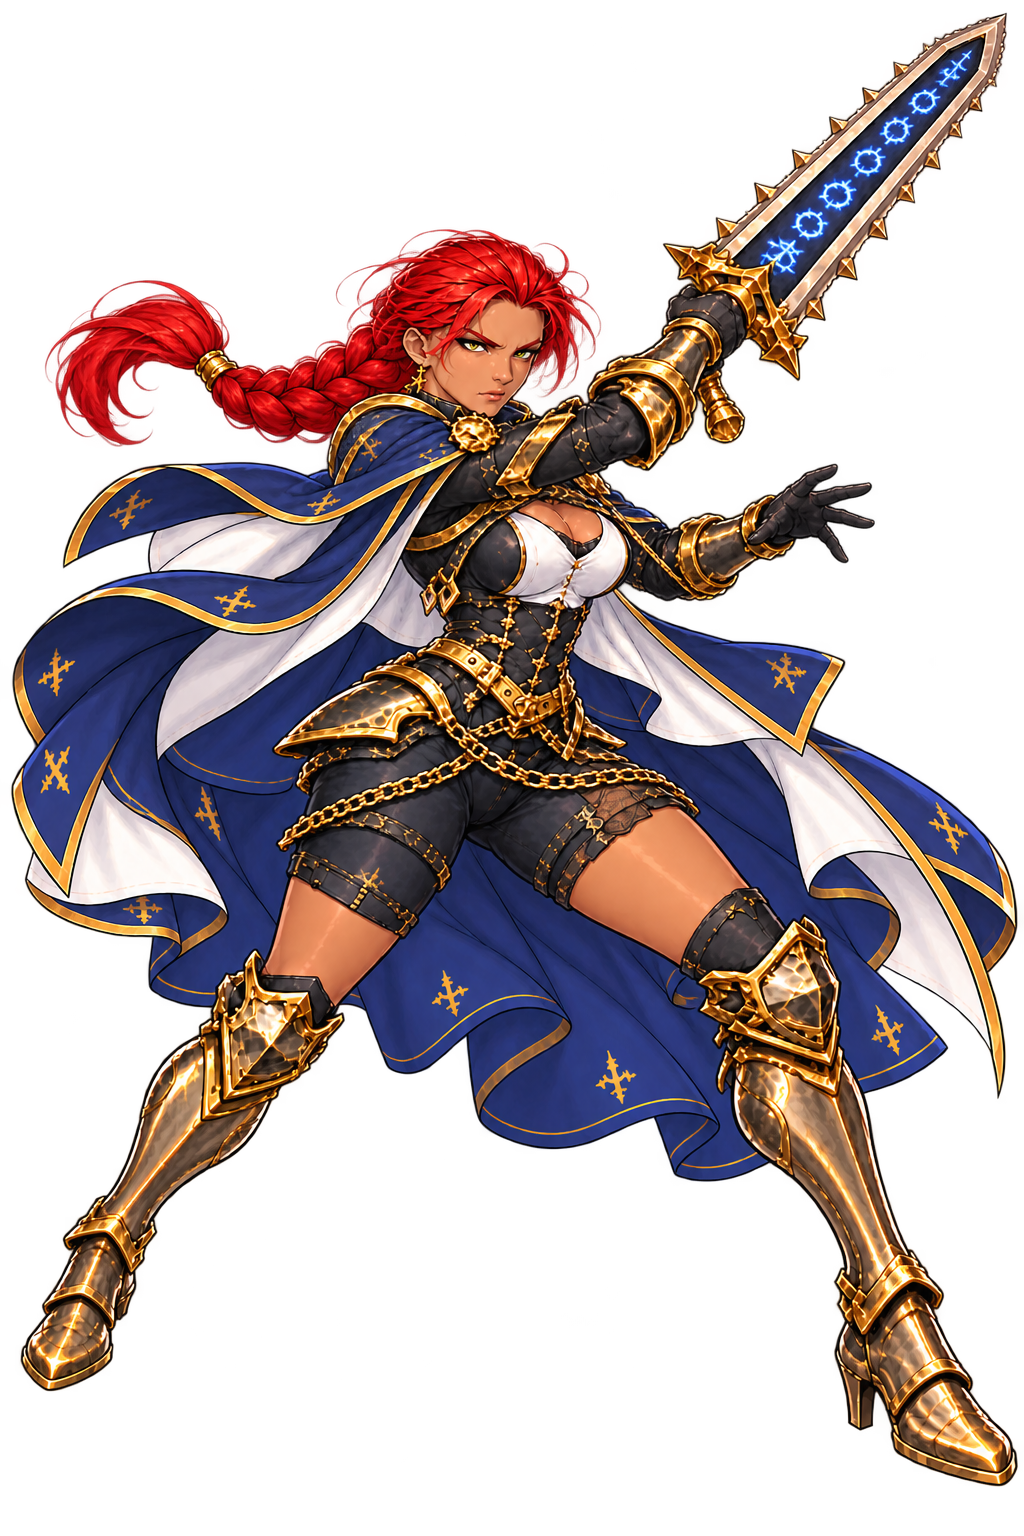
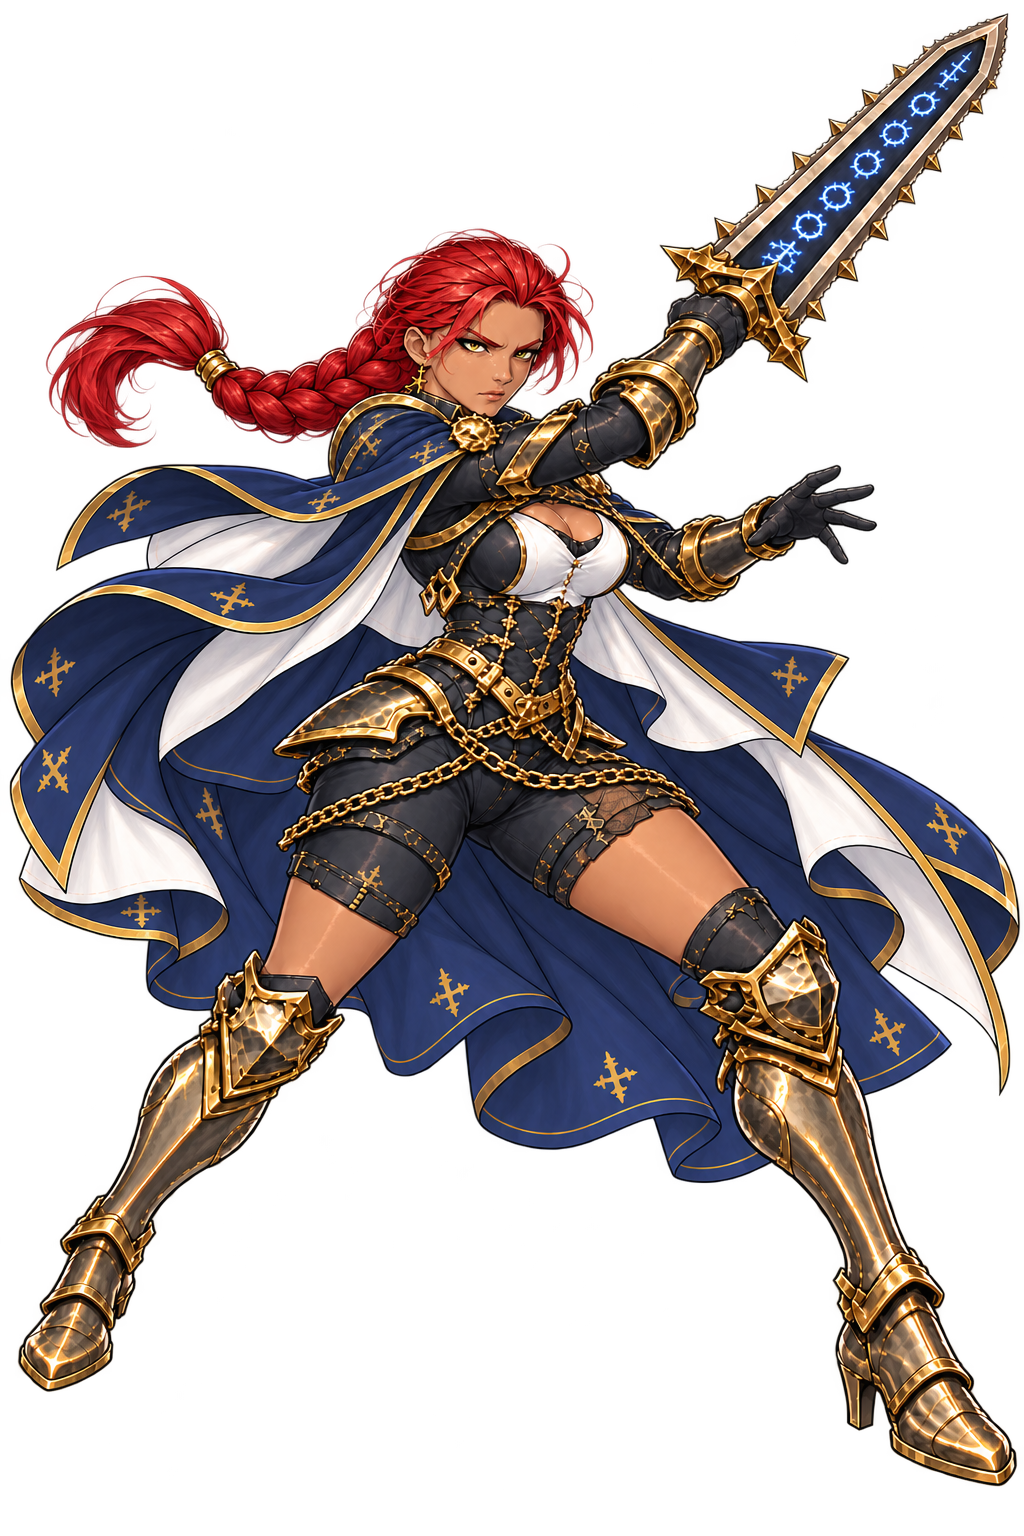
fix: actor art consistency and map UI art direction

Changed region(s): [[0.0, 0.0, 1.0, 0.9688], [0.375, 0.6875, 0.4062, 0.7188]]

diff --git a/app/animation-preview/preview.css b/app/animation-preview/preview.css
@@ -1,3 +1,9 @@
 .actor-preview{max-width:1060px;margin:auto;padding:24px;color:#ede7d8}.actor-preview nav{display:flex;justify-content:space-between}.actor-preview a{color:#d7bd80}.actor-preview h1{margin-top:32px}.actor-preview p{color:#b6c7c5;line-height:1.7}.preview-layout{display:grid;grid-template-columns:1.2fr 1fr;gap:28px}.preview-stage{height:min(68vh,700px);min-height:300px;background:radial-gradient(ellipse at bottom,#3c4e53,#111c20 70%);border:1px solid #536763;border-radius:14px;overflow:hidden}.preview-stage>img{width:100%;height:100%;object-fit:contain}.preview-controls{display:flex;flex-direction:column;gap:12px}.preview-controls h2{font-size:18px;margin:14px 0 0}.preview-controls select{display:block;width:100%;margin-top:8px;padding:12px;background:#172629;color:#ede7d8}.preview-buttons{display:flex;gap:8px;flex-wrap:wrap}.preview-controls button{min-height:44px;padding:10px 16px;border:1px solid #697c76;background:#1c2b2d;color:#eee2bf;border-radius:6px;cursor:pointer}.preview-controls button[aria-pressed=true]{background:#53625c;border-color:#dfc486}.preview-controls small{line-height:1.6;color:#acb7b4}@media(max-width:650px){.preview-layout{grid-template-columns:1fr}.preview-stage{height:48vh}.actor-preview{padding:16px}}@media(orientation:landscape) and (max-height:550px){.preview-layout{grid-template-columns:1fr 1fr}.preview-stage{height:78vh;min-height:220px}}
 .preview-controls .preview-loop{display:flex;align-items:center;gap:10px;min-height:44px}.preview-controls .preview-loop input{width:20px;height:20px;min-height:0;margin:0;padding:0;flex:0 0 20px;accent-color:#dfc486}.frame-sampler{border-top:1px solid #536763;padding-top:12px}.frame-sampler button:disabled{opacity:.6;cursor:wait}
 .preview-loading{height:100%;display:flex;flex-direction:column;align-items:center;justify-content:center;gap:18px;color:#b6c7c5}.preview-loading button{min-height:44px;padding:10px 20px}
+.preview-stage {background:#191d29;border:1px solid #8b7450;border-radius:3px;box-shadow:inset 0 0 0 8px #252836;}
+.preview-controls {background:#24232a;padding:20px;border-top:3px solid #a78350;}
+.preview-controls h2 {color:#e1c692;letter-spacing:.05em;font-size:14px;border-bottom:1px solid #51483e;padding-bottom:8px;}
+.preview-controls button {background:#303442;border-color:#5b5d69;border-radius:3px;}
+.preview-controls button[aria-pressed=true] {background:#6f4535;border-color:#d8af79;color:#fff3dc;}
+.preview-controls select {background:#171c27;border:1px solid #6b645a;border-radius:3px;}

diff --git a/app/art-direction.css b/app/art-direction.css
@@ -1,0 +1,35 @@
+/* Ink, aged brass and parchment: separate navigation, information and route surfaces. */
+:root { --bg:#14161d; --panel:#21242d; --line:#49454a; --text:#eee8dc; --muted:#b5b0a8; --gold:#d7b579; }
+body { background-color:var(--bg); }
+.topbar { background:#191b24; border-bottom-color:#806b4b; }
+.map-panel { background:#26242a; border-color:#665944; }
+.route-map.procedural-map {
+  background:linear-gradient(110deg,#e4d6b7,#c9b68d);
+  border:1px solid #aa9064;
+  border-radius:3px;
+  box-shadow:inset 0 0 35px #725b372b;
+}
+.procedural-map .route-row { width:20%; max-width:120px; }
+.procedural-map .room {
+  background:#342d29; color:#eee1c7; border-color:#8e7858;
+  border-radius:3px; box-shadow:0 3px 0 #5b483c40;
+  line-height:1.35; overflow-wrap:anywhere; min-height:64px;
+}
+.procedural-map .room:disabled { opacity:1; background:#cab995; color:#5d5140; border-color:#a18e6b; box-shadow:none; }
+.procedural-map .room.current { background:#593d32; color:#fff0d1; border-color:#946c47; }
+.procedural-map .room.pending { background:#243f49; color:#fff2d7; border:2px solid #a86731; }
+.procedural-map .room > span { background:transparent; border:0; color:inherit; }
+.procedural-map .route-links line { stroke:#655741; opacity:.65; }
+.procedural-map .route-links line.available { stroke:#344e57; opacity:1; }
+.procedural-map .route-links line.selected { stroke:#954c29; filter:none; }
+.route-briefing { background:#242b36; border-color:#806b4b; }
+.rank-badge,.card-cost,.unit-readout p,.enemy p,.battle-toolbar,.frame-sampler {
+  font-variant-numeric:tabular-nums lining-nums;
+  letter-spacing:normal;
+}
+.rank-badge { font-family:"Noto Sans KR",sans-serif; text-align:center; }
+.unit-readout p,.enemy p { white-space:nowrap; }
+@media(max-width:700px) {
+  .procedural-map .room { font-size:10px; padding:5px 2px; }
+  .procedural-map .room small { font-size:9px; line-height:1.3; }
+}

diff --git a/app/page.tsx b/app/page.tsx
@@ -25,6 +25,7 @@ import "./story-conversation.css";
 import "./combat-polish.css";
 import "./renewal-combat.css";
 import "./compact-landscape.css";
+import "./art-direction.css";
 import StatusIcon from "./components/StatusIcon";
 import { sceneAsset } from "../lib/scenery";
 import {
@@ -3672,9 +3673,9 @@ export default function Page() {
                                 <line
                                   key={`${fromId}-${toId}`}
                                   x1={from.x || 50}
-                                  y1={96 - (from.layer || 0) * 14}
+                                  y1={90 - (from.layer || 0) * 13}
                                   x2={to.x || 50}
-                                  y2={96 - (to.layer || 0) * 14}
+                                  y2={90 - (to.layer || 0) * 13}
                                   className={
                                     fromId === run.room && toId === pendingRoom
                                       ? "selected"
@@ -3701,7 +3702,7 @@ export default function Page() {
                           key={id}
                           style={{
                             left: `${roomFor(run, id).x || 50}%`,
-                            bottom: `${4 + (roomFor(run, id).layer || 0) * 14}%`,
+                            bottom: `${10 + (roomFor(run, id).layer || 0) * 13}%`,
                           }}
                         >
                           <button

diff --git a/app/animation-preview/preview.tsx b/app/animation-preview/preview.tsx
@@ -5,6 +5,7 @@ import FrameSampler from './FrameSampler';
 import poses from '../../data/renewal_actor_manifest.json';
 import '../renewal-combat.css';
 import './preview.css';
+import '../art-direction.css';
 const heroes = { AR1: '레오나', AR2: '세린', AR3: '마리엔', AR4: '에델' };
 const labels: Record<string,string> = { ready:'대기', windup:'공격 준비', swing:'중간 동작', strike:'타격', recover:'회수', hit:'피격', guard:'방패 반격', heal:'응급 회복', skill:'전용 스킬' };
 export default function Preview() {

diff --git a/PATCH_HISTORY/069-art-ui-consistency.md b/PATCH_HISTORY/069-art-ui-consistency.md
@@ -1,0 +1,12 @@
+# 069 · 원화 및 UI 일관성
+
+기본 파티 동작 원화의 얼굴·장비·색상·발 위치와 지도/숫자 표시를 점검한다. AR4 중간 동작의 채도가 기준보다 높고 무기 손잡이가 이중으로 보이는 문제를 우선 수정한다. 맵·숫자 스타일은 기존 동작과 저장 구조를 유지한다.
+
+## 2026-10-20 원화 감사
+28자세를 나란히 비교. AR1 타격에서 검이 얼굴을 가로지르고 몸 크기가 축소되는 문제: 기준 대기 원화와 함께 재생성, 직립 베기와 얼굴 밖 검 궤적으로 교체. AR4 중간 동작: 이중 손잡이 제거, 망토 남색 보정. AR2·AR3는 비교에서 명확한 장비 누락/다른 캐릭터 얼굴은 발견하지 않아 유지. 자세마다 발 간격·주름·자수의 미세 차이는 남아 있으며 연속 리깅 완성으로 표시하지 않는다.
+지도 노드 중심과 연결선 y 좌표를 함께10+13×layer로 변경해 입구 하단 잘림 방지. 좁은 지도의 노드 폭20% 적용. 숫자 tabular-nums 및 HP 줄바꿈 방지. 지도는 양피지/잉크, 일반 패널은 먹색/황동, 선택은 적갈색으로 역할별 구분.
+검증: 자동 플레이3/3, 원화28/28 통과.
+
+로컬: 127.0.0.1:3000/animation-preview 원화 선택과 콘솔 오류0 확인. 게임 본문은 비로그인으로 지도 실플레이 미확인. 빌드/TypeScript 통과. 생성 원화의 미세 장식 변화는 남아 있음.
+
+라이브 미리보기 수정 원화 및 패널 확인, 콘솔 오류0. 배포26e9c24d-36e2-41ab-9fdb-5a66bd9d144e. 증거 docs/renewal/069-live.png.

diff --git a/art-source/renewal/AR1/GENERATION.md b/art-source/renewal/AR1/GENERATION.md
@@ -24,3 +24,5 @@
 ## 064 swing
 Built-in imagegen; transparent_background=true; reference windup.png + strike.png. Prompt: ONE 1024x1536 transparent full-body in-between halfway from windup to strike. Exact identity, costume, hand/weapon ownership and style. Entire weapons and boots within frame, stable ground line, no duplicate limbs or background. Right sword elbow unfolds halfway from overhead, left shield guarding.
 Saved swing.png and public/assets/renewal/AR1/swing.webp. Not continuous skeletal animation.
+
+2026-10-20: strike를 ready 기준 재생성. 검이 얼굴을 가로지르던 궤적을 허리 앞 베기로 변경, 몸 크기 차이 축소. 출력 exec-d43e4675-5226-4efd-8c03-69ae2ae52bdc.png. 투명 배경 유지.

diff --git a/art-source/renewal/AR4/GENERATION.md b/art-source/renewal/AR4/GENERATION.md
@@ -24,3 +24,5 @@
 ## 064 swing
 Built-in imagegen; transparent_background=true; reference windup.png + strike.png. Prompt: ONE 1024x1536 transparent full-body in-between halfway from windup to strike. Exact identity, costume, hand/weapon ownership and style. Entire weapons and boots within frame, stable ground line, no duplicate limbs or background. Right rune greatsword halfway forward, left hand releasing grip.
 Saved swing.png and public/assets/renewal/AR4/swing.webp. Not continuous skeletal animation.
+
+2026-10-20: swing에서 이중 검 손잡이 제거, ready 기준 망토 남색 보정. 출력 exec-b2cdf89d-0970-4fa9-8928-3b08d9f9e514.png. 투명 배경 유지.

diff --git a/PATCH_HISTORY/README.md b/PATCH_HISTORY/README.md
@@ -110,3 +110,4 @@
 - `066-pose-readiness.md`: 원화 준비 후 미리보기 재생·잔상 단축.
 - `067-short-landscape-combat.md`: 낮은 가로 전투의 손패·대상 중첩 수정.
 - 068: 태블릿 가로 전투 손패 예약 공간 보정 (`068-tablet-landscape-combat.md`).
+- 069: 원화 오류 보정, 지도 여백·숫자 정렬 및 색상 역할 분리 (`069-art-ui-consistency.md`).
